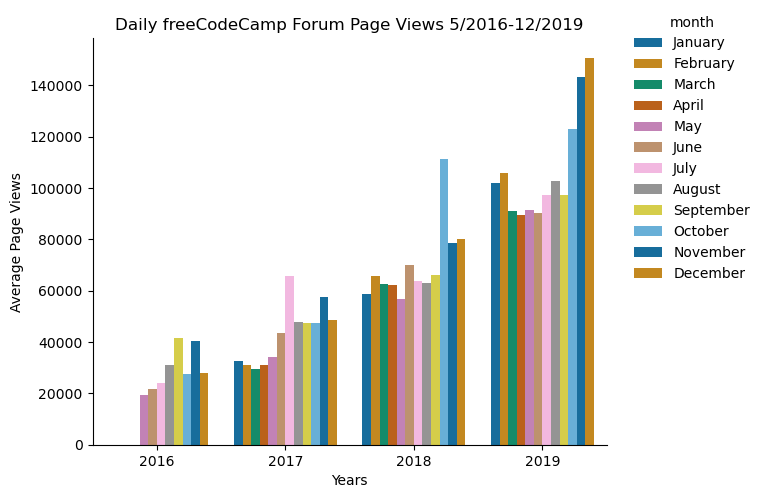
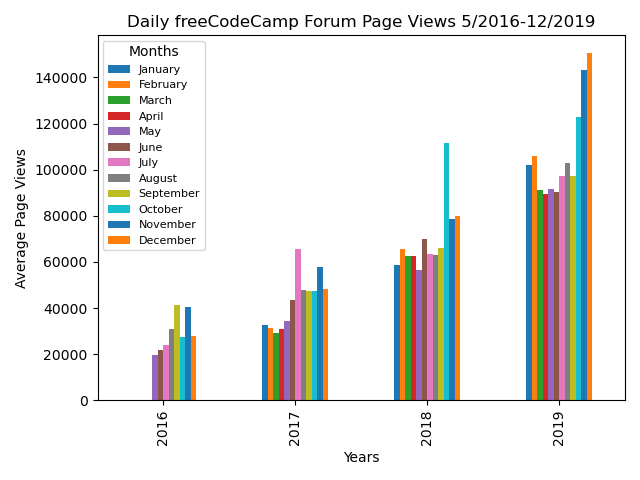
changed bar plot to use pandas dataframe plot method instead of seaborn

diff --git a/time_series_visualizer.py b/time_series_visualizer.py
@@ -10,13 +10,12 @@ df = pd.read_csv('fcc-forum-pageviews.csv').set_index('date')
 # Clean data
 df = df[(df['value'] >= df['value'].quantile(0.025)) 
      & (df['value'] <= df['value'].quantile(0.975))]
-# convert index date values to pandas datetime objects
+# convert index date values to pandas datetime objects so I can extract years and months
 df.index = pd.to_datetime(df.index)
 
 def draw_line_plot():
-    # Draw line plot
+    # Draw line plot with matplotlib plot method
     fig = plt.figure()
-    
     plt.plot(df.index, df['value'])
     #stretched fig horizontally
     fig.set_figwidth(10)
@@ -27,23 +26,31 @@ def draw_line_plot():
     
     # Save image and return fig (don't change this part)
     fig.savefig('line_plot.png')
-    #return fig
+    return fig
 
 def draw_bar_plot():
-    # Copy and modify data for monthly bar plot
-    df_bar = df.groupby('date')['value'].mean().reset_index().set_index('date')
-    df_bar['year'] = df_bar.index.strftime('%Y')
-    df_bar['month'] = df_bar.index.strftime('%B')
-
-    # Draw bar plot
-    fig = sns.catplot(x='year', y='value', hue='month', hue_order=['January', 'February', 'March', 'April', 'May', 'June', 'July', 'August', 'September', 'October', 'November', 'December'], palette='colorblind', kind='bar', data=df_bar, errorbar=None)
-    #Use the bbox_to_anchor parameter for more fine-grained control, including moving the legend outside of the axes
-    sns.move_legend(fig, "upper left", bbox_to_anchor=(1, 1))
+    # Copy and modify data for monthly bar plot, extract years and months for grouping
+    df['year'] = df.index.strftime('%Y')
+    # use numeric month values so I can group them
+    df['month'] = df.index.strftime('%m')
+    # get the average of values grouped by year and month
+    df_bar = df.groupby(['year', 'month'])['value'].mean().reset_index().set_index('year')
+    # Use pivot to change dataframe from long to wide format and then plot bar chart
+    # using dataframe plot method instead of matplotlib plot method (can also use .plot(kind='bar'))
+    df_bar.pivot(columns='month').plot.bar()
+    # Draw bar plot    Using fig = plt because using dataframe plot method instead of matplotlib plot method
+    fig = plt
+    plt.legend(labels=['January', 'February', 'March', 'April', 'May', 'June', 'July', 'August', 'September', 'October', 'November', 'December'], fontsize=8).set_title('Months')
     plt.title('Daily freeCodeCamp Forum Page Views 5/2016-12/2019')
     plt.xlabel('Years')
     plt.ylabel('Average Page Views')
     plt.tight_layout()
     
+    #alternative bar chart using seaborn:
+    #fig = sns.catplot(x='year', y='value', hue='month', hue_order=['January', 'February', 'March', 'April', 'May', 'June', 'July', 'August', 'September', 'October', 'November', 'December'], palette='colorblind', kind='bar', data=df_bar, errorbar=None)
+    #Use the bbox_to_anchor parameter for more fine-grained control, including moving the legend outside of the axes
+    #sns.move_legend(fig, "upper left", bbox_to_anchor=(1, 1))
+   
     # Save image and return fig (don't change this part)
     fig.savefig('bar_plot.png')
     return fig
